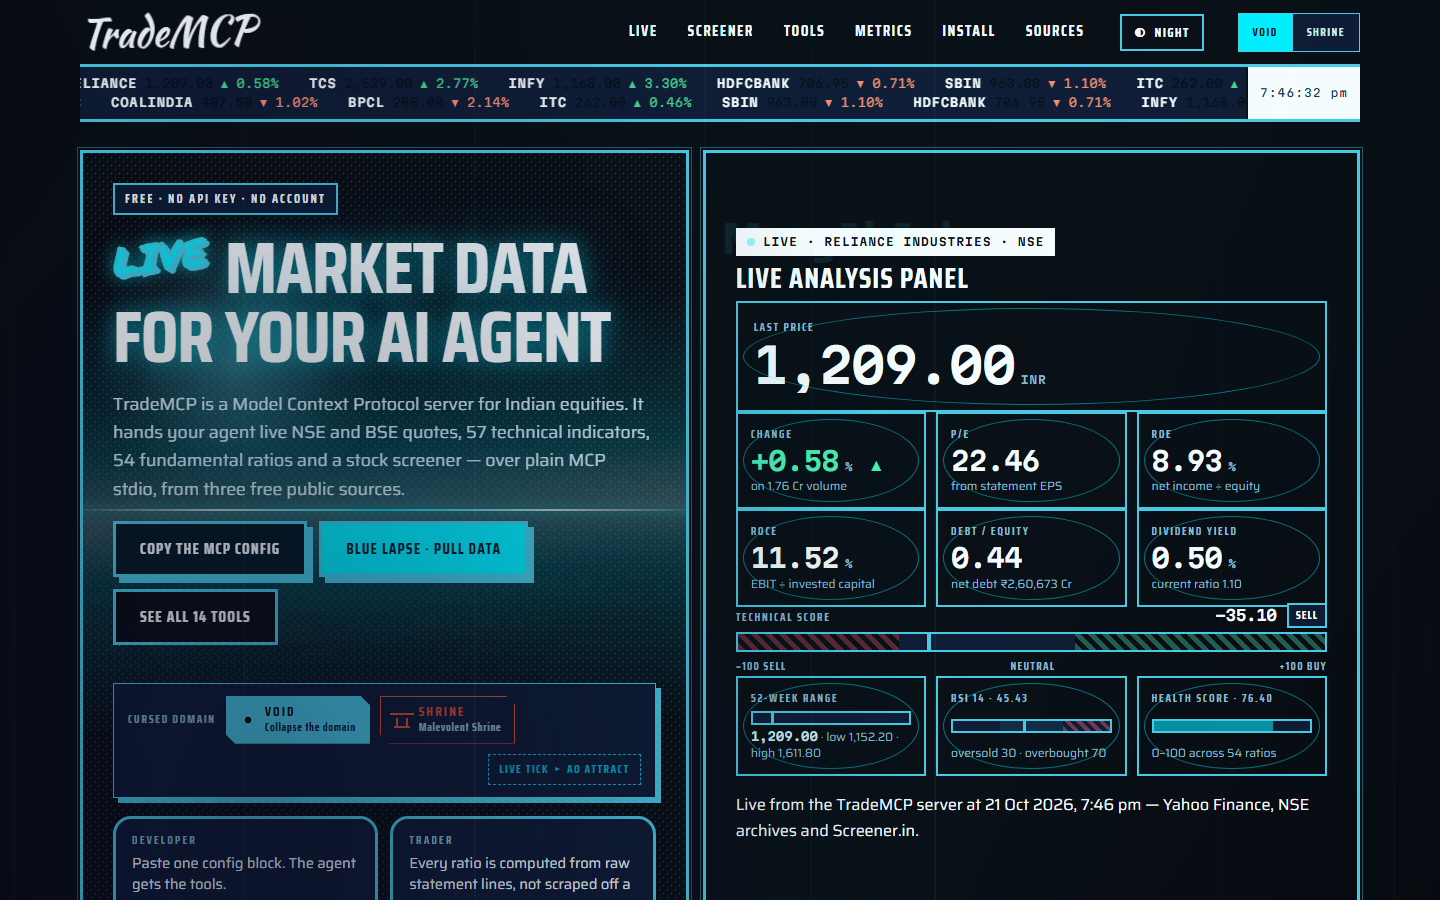
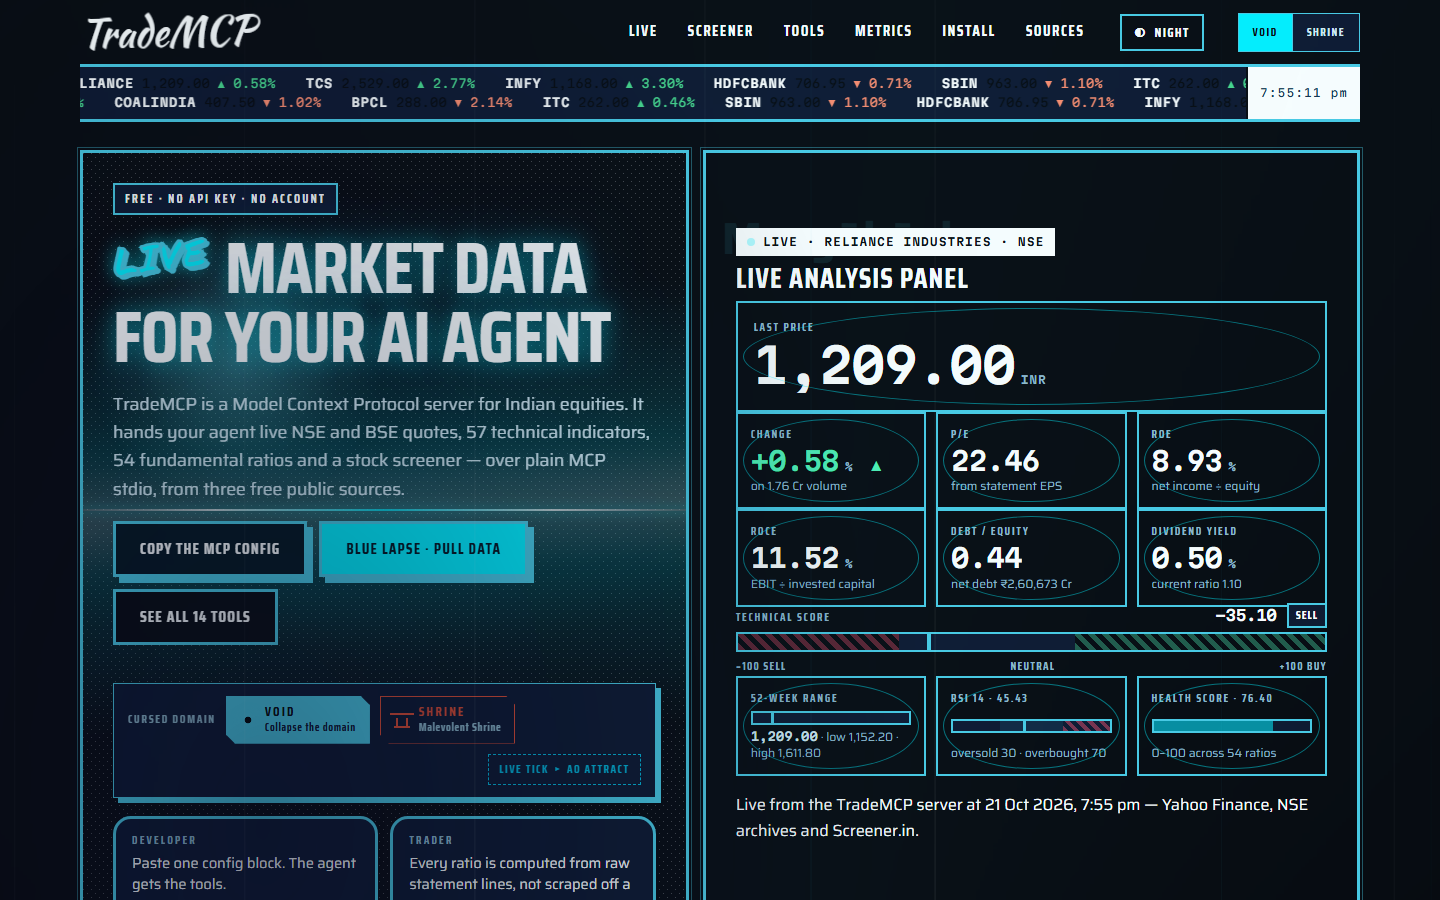
Make the hero HUD live and fix the static-host fallback
The hero panel was static markup with a LIVE tag over snapshot numbers.
It is now painted from the same /api/* payloads the live board uses:
price, change, volume, all the ratios, the composite technical score
(a new /api/score route on the showcase server), RSI and the health
score. The panel says SNAPSHOT and stops pulsing when the host has no
live endpoint, and the footer names the source either way.

Also fixes three defects found while checking the deployed page:

- the night/void/shrine screentone textures were referenced as
  tone-*-night.png but the generator writes tone-night-*.png, so the
  halftone silently 404ed in three of four themes
- the digit-roll keyframe started at opacity 0, so a price landing
  mid-animation was captured with its leading digit invisible
- on a static host the chart drew from the snapshot but the price, the
  fundamental list and the feed label did not, leaving a dash where
  the price should be

The shrine torii no longer runs through the hero copy: a scrim of the
page's own ink keeps the gate visible in the margins and out of the
text.

diff --git a/showcase/site/live.js b/showcase/site/live.js
@@ -661,6 +661,8 @@ function setPrice(rawQuote) {
       `<span class="board__range-nums">${nf(quote.low, 2)} — ${nf(quote.high, 2)}</span>`;
   }
   if (nameNode && quote.name) nameNode.textContent = quote.name;
+  const feed = document.getElementById("board-feed-label");
+  if (feed) feed.textContent = "live feed";
 }
 /* ---------- the hero HUD ----------------------------------------------------
    The first screen used to be static markup with a LIVE tag over snapshot
@@ -837,7 +839,7 @@ async function refreshHud(snapshot) {
     const stamp = new Date().toLocaleString("en-IN", { dateStyle: "medium", timeStyle: "short" });
     foot.textContent = live
       ? `Live from the TradeMCP server at ${stamp} — Yahoo Finance, NSE archives and Screener.in.`
-      : `Server snapshot captured ${snapshot?.generated_at || "21 Oct 2026, 03:20 IST"} from Yahoo Finance, NSE archives and Screener.in.`;
+      : "Server snapshot from Yahoo Finance, NSE archives and Screener.in — this host has no live endpoint.";
   }
 }
 
@@ -870,19 +872,27 @@ async function refreshBoard(symbol, snapshot) {
     }
   } catch {
     state.live = false;
-    const fallback = snapshot?.fundamentals?.[symbol];
-    const candles = snapshot?.candles || [];
-    if (candles.length) {
-      const computed = renderChart(candles);
-      state.computed = computed;
-      setReadouts(buildIndicatorRows(candles, computed), "indicator-list");
-    }
-    if (fallback) {
-      setReadouts(buildFundamentalRows(fundamentalsFromFundamentals(fallback)), "fundamental-list");
-      setPrice(fallback.market || fallback);
-    }
-    setBadge(false, "server snapshot — live endpoint unavailable");
+    paintSnapshot(symbol, snapshot, "server snapshot — live endpoint unavailable");
   }
+}
+
+/* The static fallback, used when the host has no /api/* endpoints. It paints
+   everything the live path paints, so the deployed page is the same page. */
+function paintSnapshot(symbol, snapshot, stamp) {
+  const fallback = snapshot?.fundamentals?.[symbol];
+  const candles = snapshot?.candles || [];
+  if (candles.length) {
+    const computed = renderChart(candles);
+    state.computed = computed;
+    setReadouts(buildIndicatorRows(candles, computed), "indicator-list");
+  }
+  if (fallback) {
+    setReadouts(buildFundamentalRows(fundamentalsFromFundamentals(fallback)), "fundamental-list");
+    setPrice(fallback.market || fallback);
+  }
+  const feed = document.getElementById("board-feed-label");
+  if (feed) feed.textContent = "snapshot feed";
+  setBadge(false, stamp || "server snapshot");
 }
 function fundamentalsFromFundamentals(payload) {
   const v = payload.valuation || {};
@@ -936,13 +946,10 @@ function wireBoard() {
   loadSnapshot()
     .then((data) => {
       snapshot = data;
+      // A static host has no /api/* endpoints: paint the board from the
+      // snapshot the server itself wrote, and say so on screen.
       if (!state.live) {
-        const candles = data.candles || [];
-        if (candles.length) {
-          const computed = renderChart(candles);
-          setReadouts(buildIndicatorRows(candles, computed), "indicator-list");
-          setBadge(false, "server snapshot");
-        }
+        paintSnapshot(state.symbol || "RELIANCE", data, "server snapshot");
       }
       return refreshTape(data.tape || []);
     })

diff --git a/showcase/site/index.html b/showcase/site/index.html
@@ -11,7 +11,7 @@
 <link rel="preconnect" href="https://fonts.googleapis.com">
 <link rel="preconnect" href="https://fonts.gstatic.com" crossorigin>
 <link href="https://fonts.googleapis.com/css2?family=Kaushan+Script&family=Martian+Mono:wght@400;600&family=Permanent+Marker&family=Saira+Condensed:wght@600;700&family=Saira:wght@400;500;700&display=swap" rel="stylesheet">
-<link rel="stylesheet" href="styles.css?v=19">
+<link rel="stylesheet" href="styles.css?v=20">
 </head>
 <body>
 <a class="skip" href="#main">Skip to content</a>
@@ -255,7 +255,7 @@
           <div class="board__price">
             <span class="board__last" id="board-last">—</span>
             <span class="board__change" id="board-change"></span>
-            <span class="board__feed"><span class="energy"></span> live feed</span>
+            <span class="board__feed"><span class="energy"></span> <span id="board-feed-label">live feed</span></span>
           </div>
 
           <div class="chart" id="chart"></div>
@@ -782,8 +782,8 @@ python -m pytest tests -q</pre>
 
 <div class="toast" id="toast" role="status" aria-live="polite"></div>
 
-<script src="app.js?v=19"></script>
-<script src="live.js?v=19"></script>
-<script src="screener.js?v=19"></script>
+<script src="app.js?v=20"></script>
+<script src="live.js?v=20"></script>
+<script src="screener.js?v=20"></script>
 </body>
 </html>
